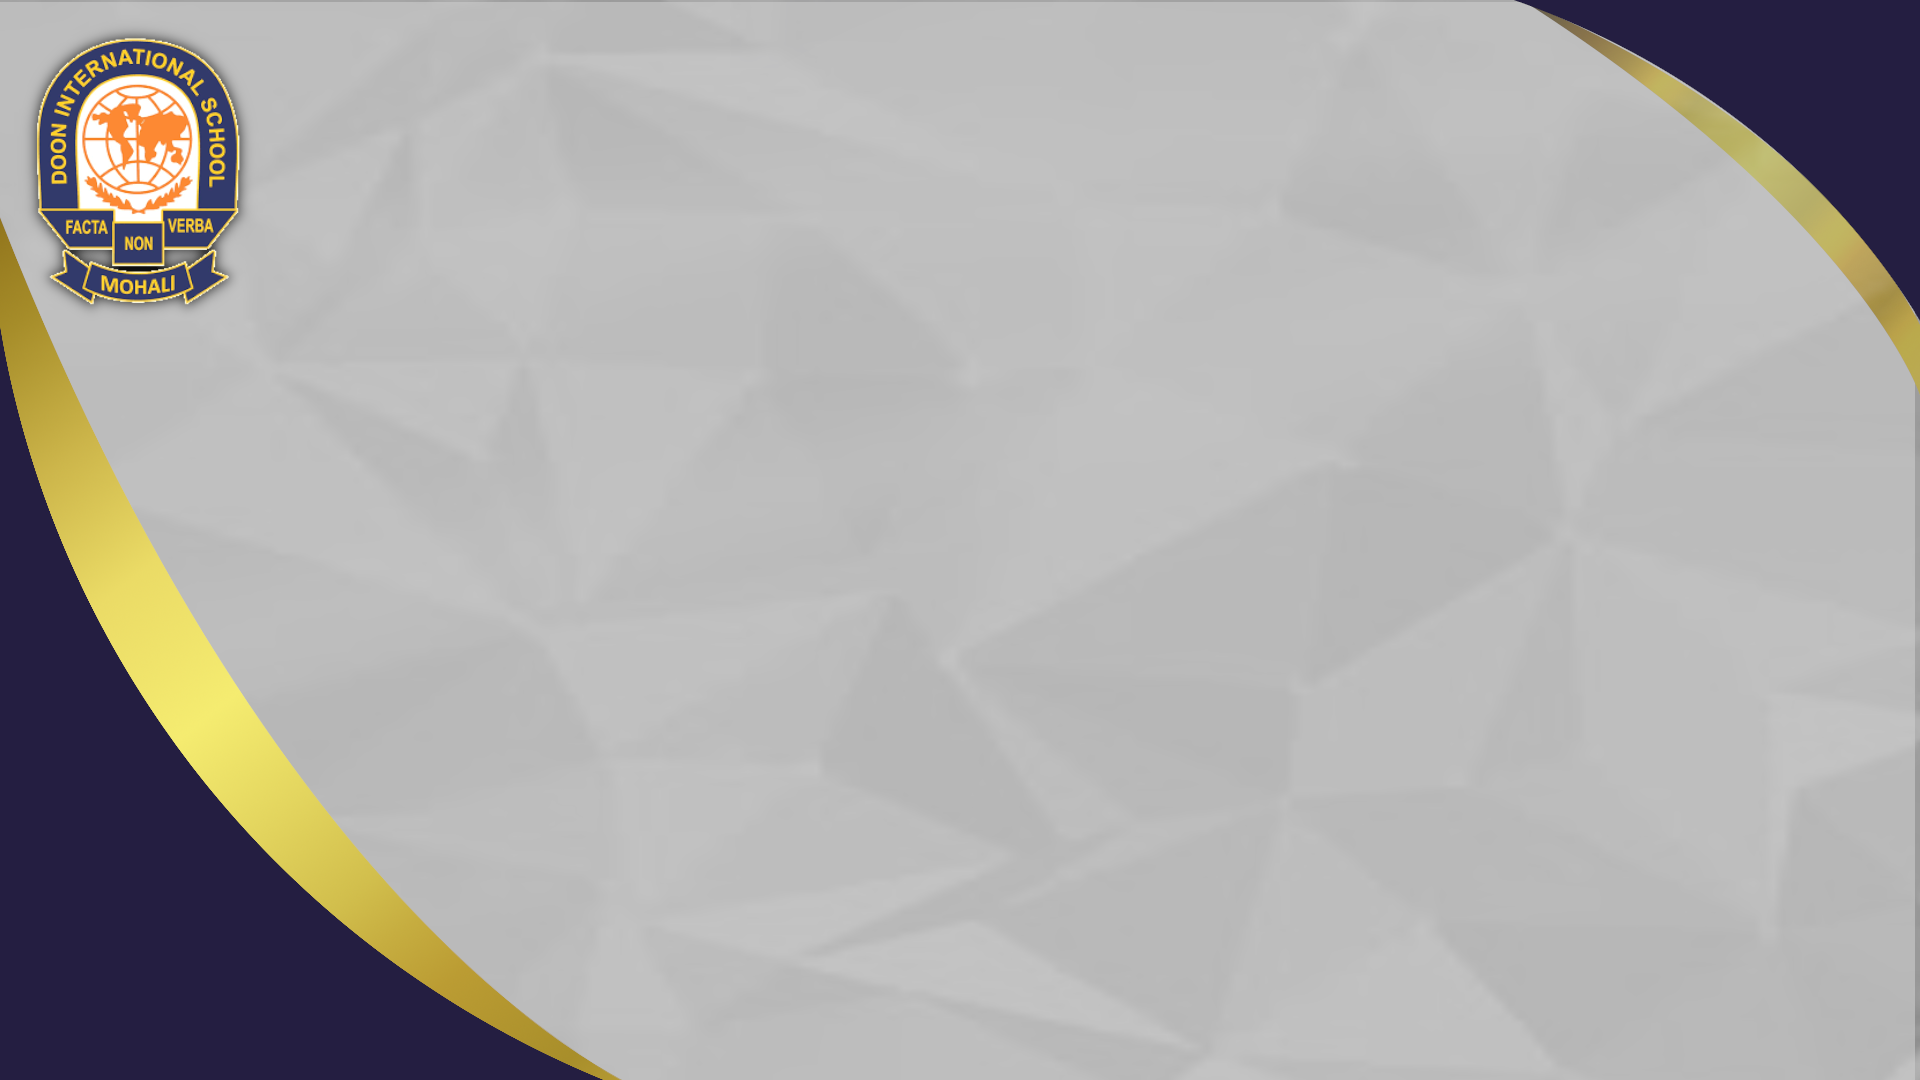
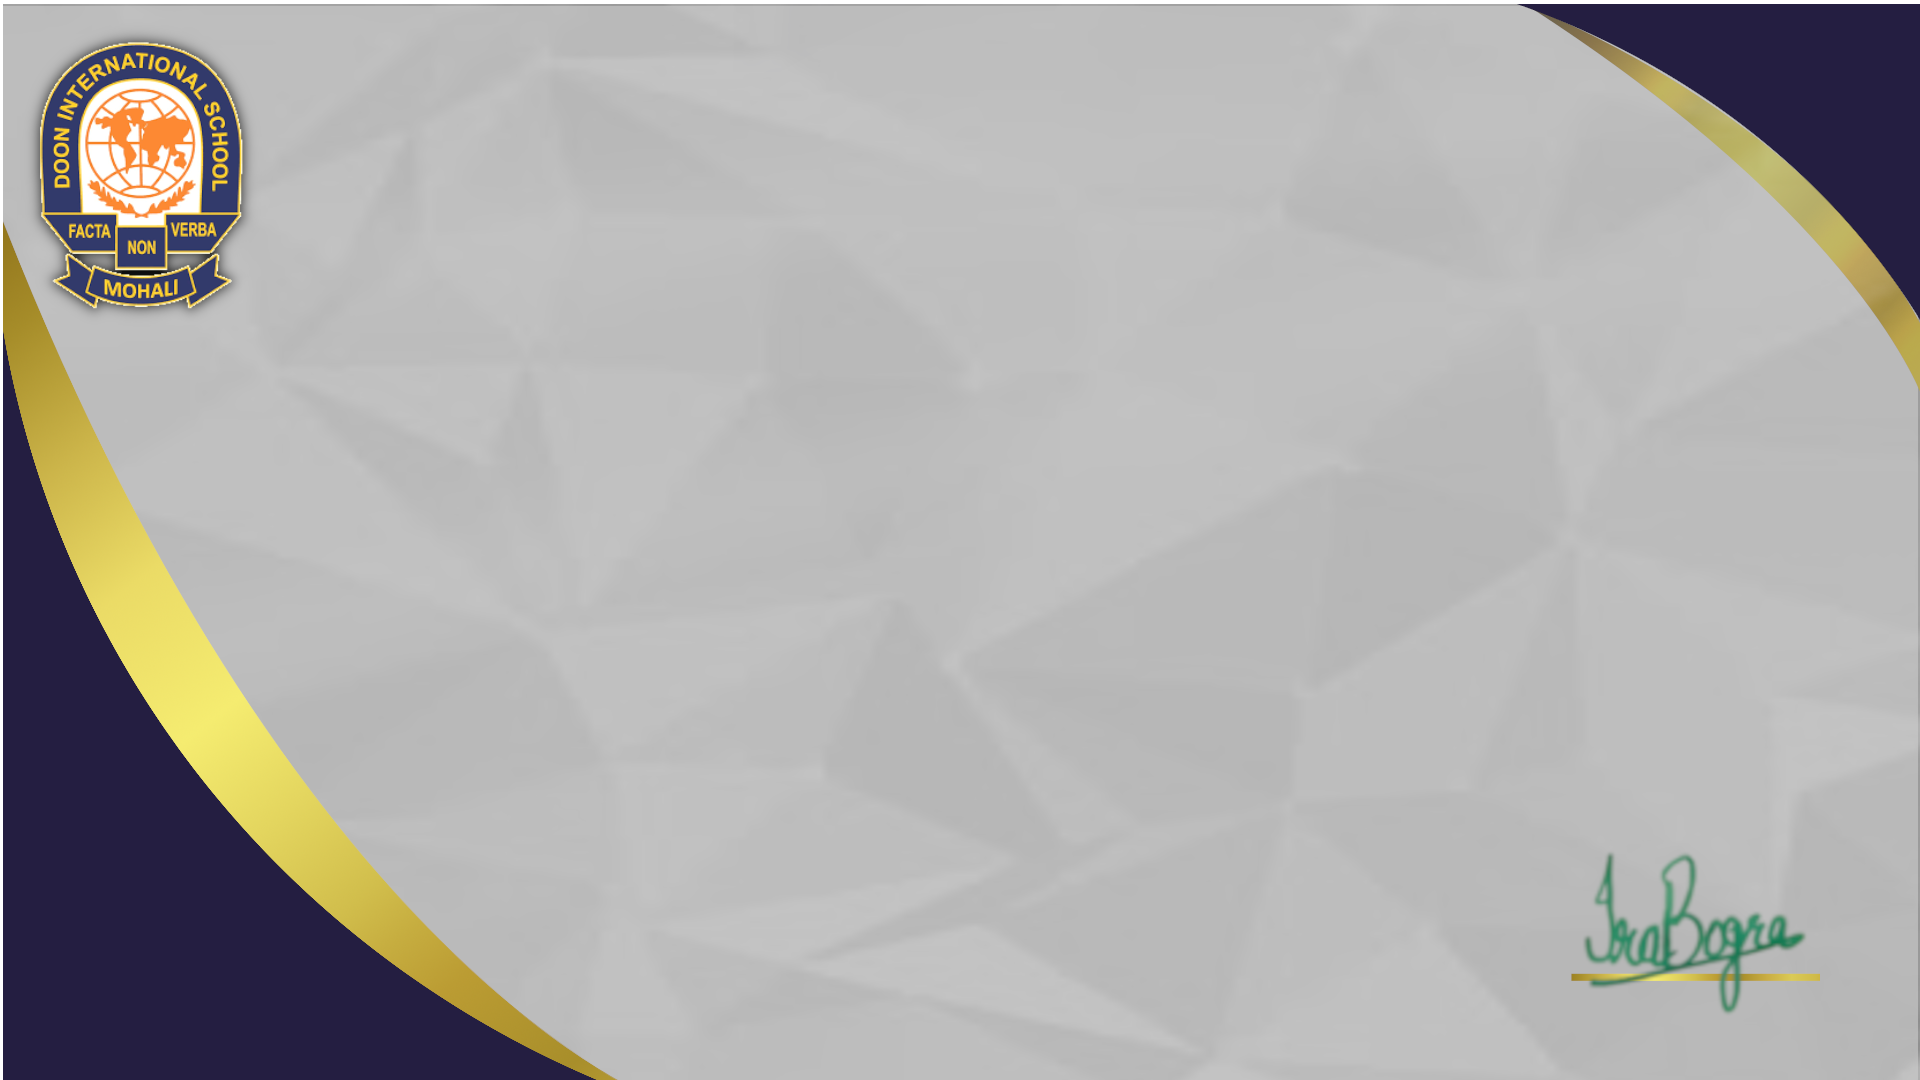
....

diff --git a/index.html b/index.html
@@ -32,13 +32,7 @@
                 {{description}}</p>
         </div>
 
-        <div class="footer absolute top-[85vh] right-[8vw] z-[10]">
-            <div class="flex flex-col items-center">
-                <img src="./assets/img/signature.png" class="w-[clamp(10rem,25vw,20rem)] h-auto" alt="Signature">
-
-                <img src="./assets/img/signatureLine.png" class="w-[15rem] h-auto" alt="">
-            </div>
-        </div>
+       
     </div>
     <script src="script.js"></script>
 </body>
